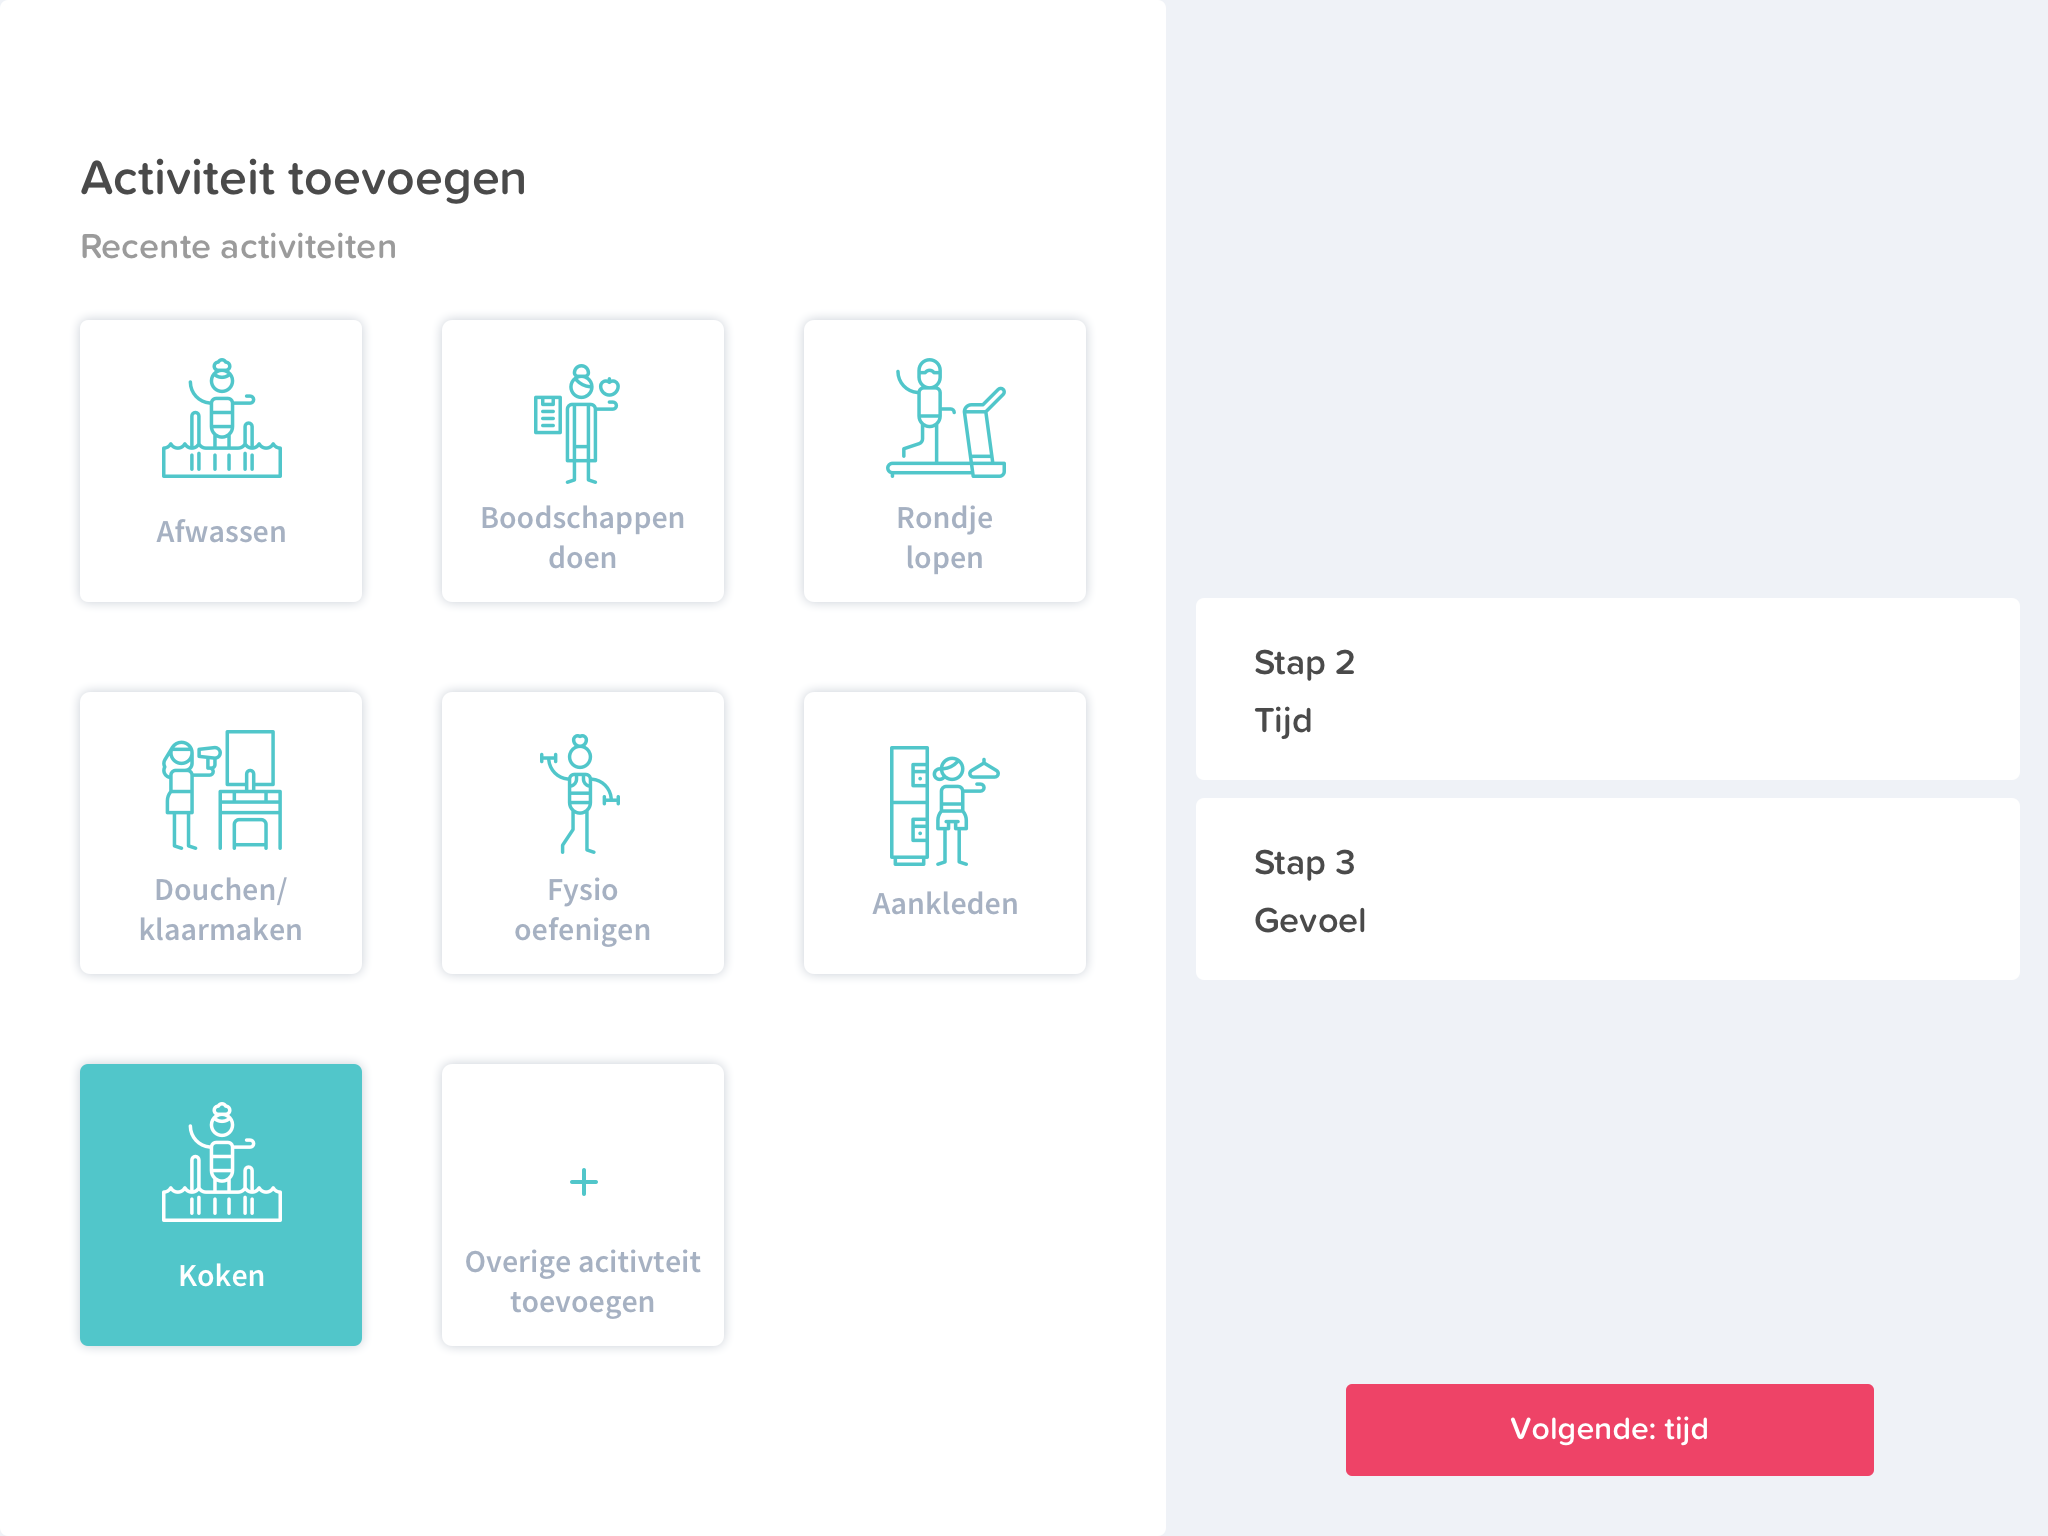
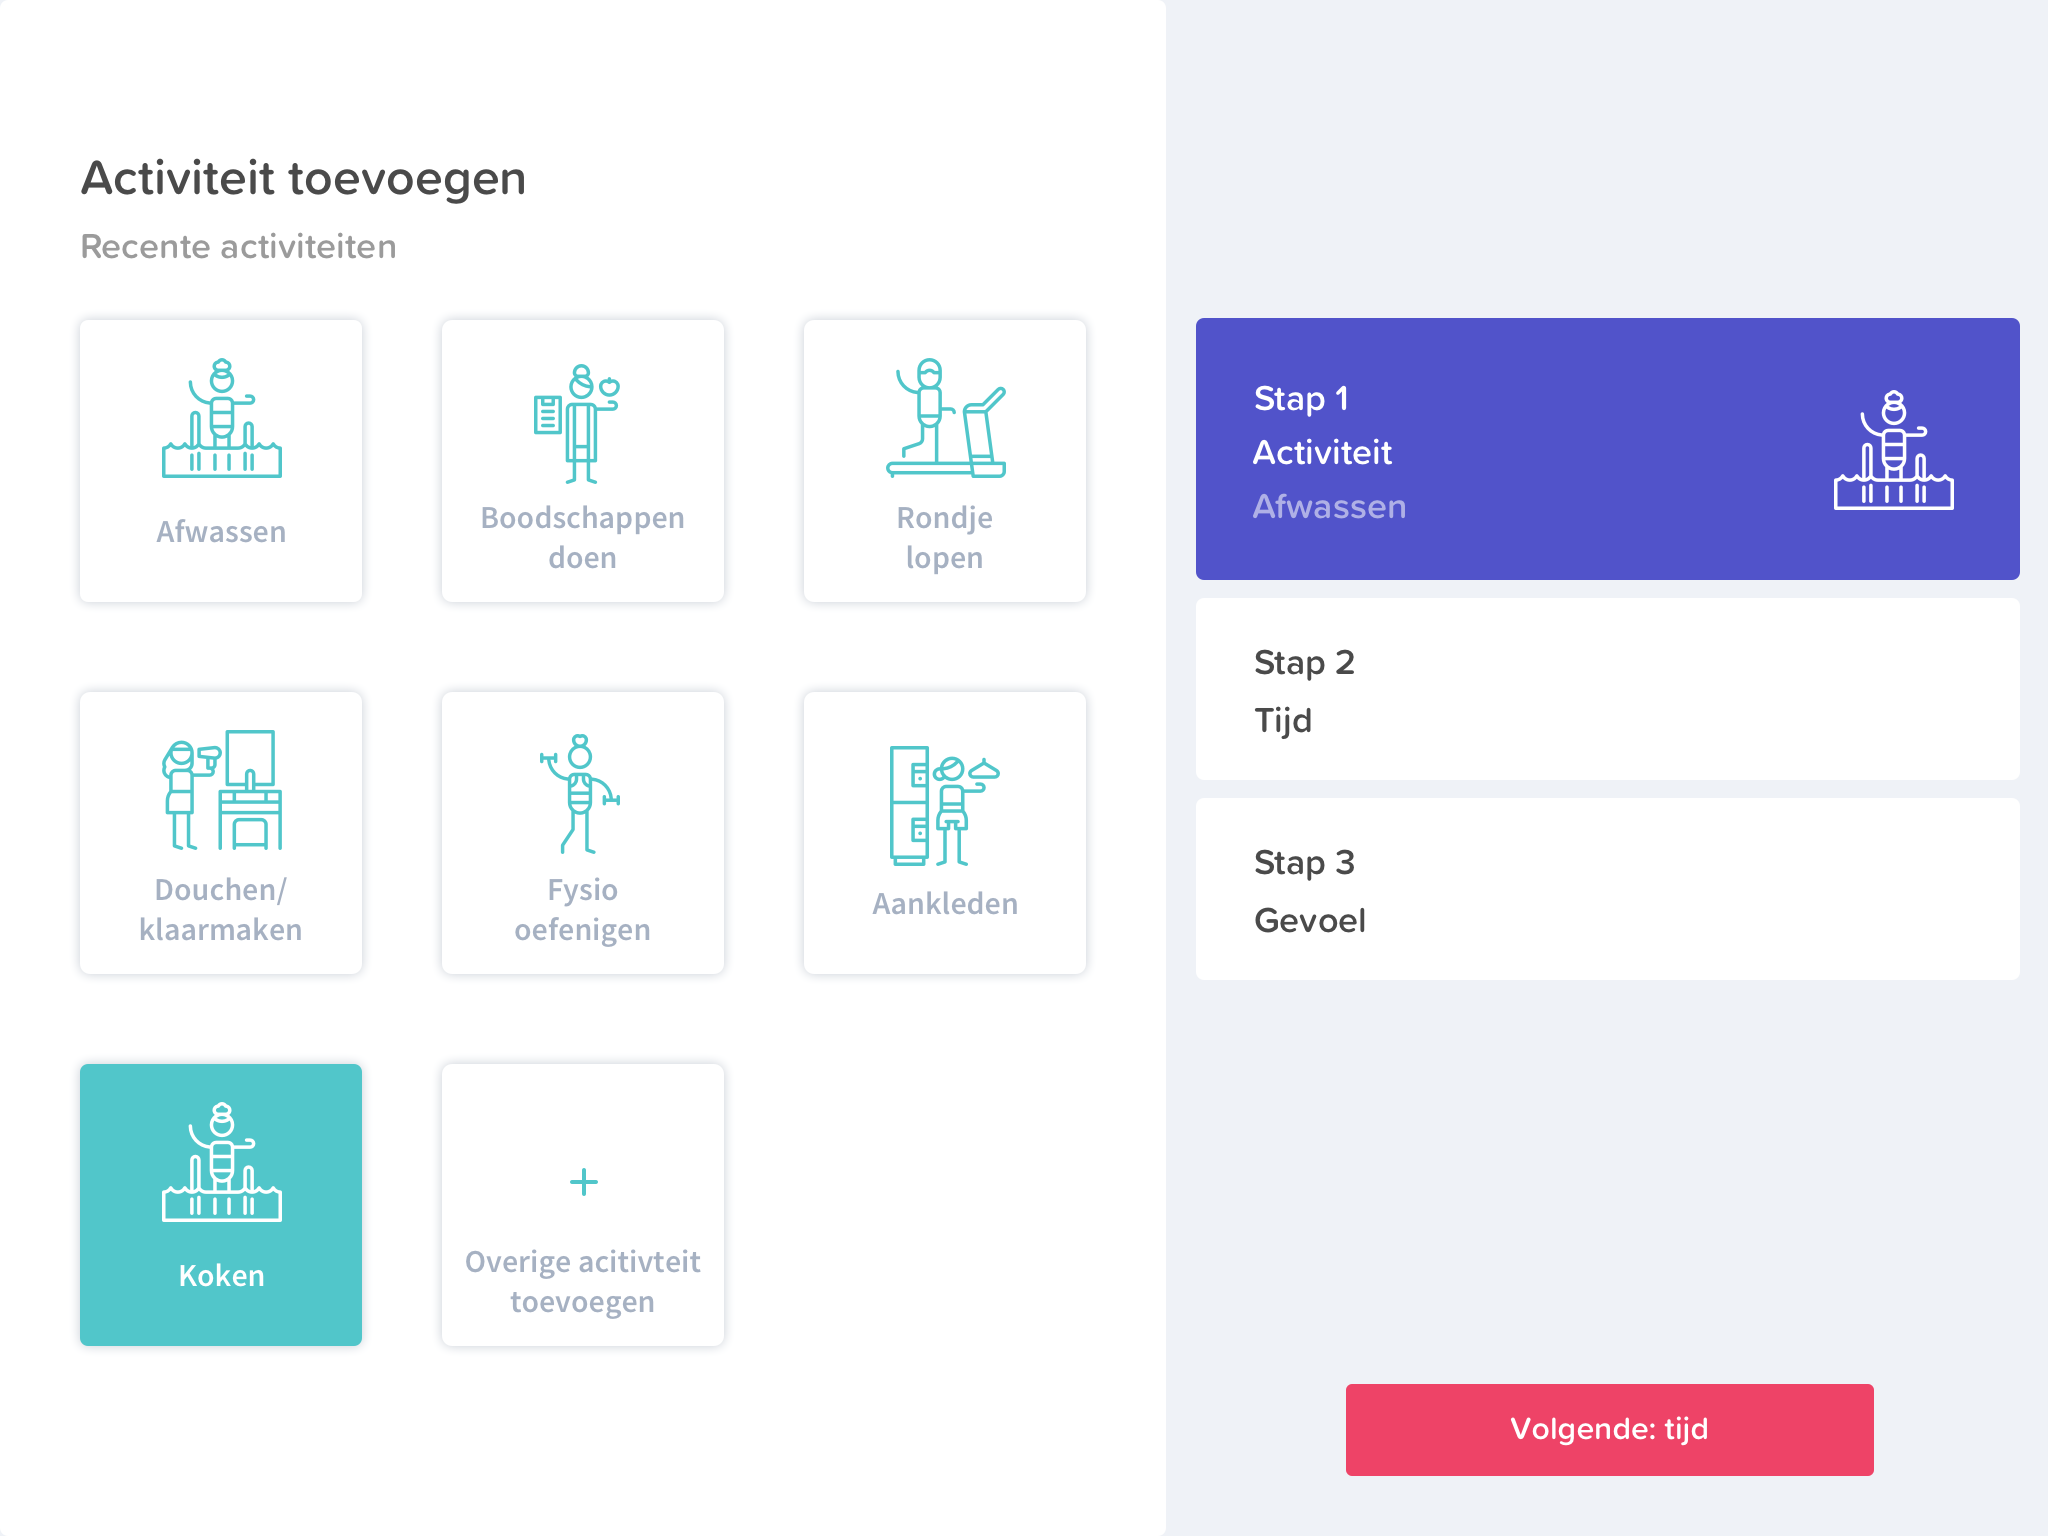
GitBook: [master] 2 pages and 2 assets modified

Changed region(s): [[0.5625, 0.1875, 1.0, 0.375]]

diff --git a/4.-ontwerp/high-fi-prototype-2.0/aanpassingen.md b/4.-ontwerp/high-fi-prototype-2.0/aanpassingen.md
@@ -62,41 +62,73 @@ Zodra de gebruiker begint met typen dan verschuift de knop gelijk. Nu is de "sla
 
 ## 4.0 Activiteit toevoegen
 
+> Er worden 6 recente acitiviteiten getoond voor de gebruiker. Dit gaat op basis van de activiteiten die door jou het meest worden gedaan. In eerste instatie worden en random 6 activiteiten laten zien. Het is ook altijd mogelijk om een overieg activiteit toe te voegen mocht jouw activiteit er niet bij staan.
+
 Uit de test 1 en 2 bleek dat vele testpersonen niet wisten of ze de activiteit moesten invullen **voordat** ze begonnen aan de activiteit of **nadat** ze de activiteit gedaan hadden. Om dit iets duidelijker te maken hebben wij in de onboarding uitgelegd dat je dit invult **nadat je de activiteit hebt gedaan.** Ook hebben wij dit proberen te bereiken door de titel aan te passen. Door de vraag te stellen welke activiteit ze hebben gedaan willen we duiden op de verleden tijd. Ook hebben wij op basis van de [**testen**](../methods/style-test.md) en het [**onderzoek**](../../analyse/onderzoeksvragen/oudere-vriendelijke-ui.md) naar iconografie en kleurgebruik nieuwe iconen toegevoegd die aansluiten bij de activiteit en stijl van de app. 
 
 ![](../../.gitbook/assets/screenshot-2019-01-18-at-12.39.38.png)
 
 ## 4.1 Activiteit toevoegen
 
-Uit de test 1 en 2 bleek dat vele testpersonen niet wisten of ze de activiteit moesten invullen **voordat** ze begonnen aan de activiteit of **nadat** ze de activiteit gedaan hadden. Om dit iets duidelijker te maken
+> Hier kan de gebruiker kiezen uit verschillende activiteiten die door de app al gegenereerd zijn. Mocht de app echt gemaakt worden zouden wij deze lijst nog graag uitbreiden met activiteiten. Als hier de activiteit van de gebruiker niet tussen staat kan hij/zij altijd de activiteit zelf nog toevoegen door middel van het invulveld onderaan de pagina.
 
-![](../../.gitbook/assets/screenshot-2019-01-18-at-12.39.38.png)
+Hier hebben we ook de nieuwe iconen gebruikt en hebben we voor elke acitiviteit een nieuw icoon gebruikt. Ook hebben we heb invulveld dezelfde stijl gegeven als alle andere invulvelden bij het bewerken van je profiel. We waren ook nog een terug knop vergeten toe te voegen mocht je toch geen eigen activiteit willen toevoegen.
+
+![](../../.gitbook/assets/screenshot-2019-01-18-at-13.54.33.png)
 
 ## 5.0 Activiteit geselecteerd
+
+> Als er een activiteit geselecteerd word dan wordt het blok groen om meer nadruk te leggen op de geselecteerde keuze. Ook komt de keuze en het icoon rechts van de pagina in het stappenplan te staan. De knop veranderd ook van de grijze disabled state naar de roze primaire actie state om te laten zien dat de gebruiker nu verder kan. Door de roze kleur laten we de volgende stap even extra opvallen.
+
+Ook hier is de titel veranderd om te suggereren dat het in het verleden is en dus na de activiteit moet worden ingevuld. 
 
 ![](../../.gitbook/assets/screenshot-2019-01-18-at-14.16.25%20%281%29.png)
 
 ## 5.1 Activiteit toegevoegd
 
+> De nieuwe toegevoegde acitiviteit is gelijk geselecteerd omdat deze net is aangemaakt door de gebruiker. Er komt een blokje bij de recente activiteiten van de gebruiker. Er kunnen maximaal 9 blokken op 1 pagina inclusief de "overige activiteit toevoegen" knop.
+
+Ook hier is de titel veranderd om te suggereren dat het in het verleden is en dus na de activiteit moet worden ingevuld. 
+
 ![](../../.gitbook/assets/screenshot-2019-01-18-at-14.19.15.png)
 
 ## 6.0 Tijd 
+
+> Hier geeft de gebruiker aan hoelang de activiteit geduurd heeft. In eerste instantie staat er 0 minuten maar zodra de gebruiker de spinner beweegt komt er in het blauw het aantal uur en minuten te staan.
+
+Na aanleiding van de [**test**](../high-fi-prototype-1.0/usability-testing/testplan.md) hebben we de tijd spinner veranderd. We hebben gekeken naar andere design patronen voor tijd en hebben uiteindelijk deze gekozen. Hij is duidelijker en groter voor ouderen. Er kan op geklikt worden. Zit de gebruiker aan de bovenkant dan gaat hij omhoog en bij de onderkant omlaag. Er hoeft niet precies op het icoontje geklikt te worden. Ook kan er een waarde ingevuld worden als de gebruiker op de getallen klikt. 
 
 ![](../../.gitbook/assets/screenshot-2019-01-18-at-12.43.06.png)
 
 ## 7.0 Gevoel
 
+> De gebruiker vult hier in hoe hij/zij zich voelde bij de uitgekozen activiteit. Er is gekozen voor smileys om uit te kiezen zodat de gebruiker niets hoeft te typen op de iPad en visueel een keuze kan maken tussen emoties. Het is zo simpeler en sneller.
+
+Uit de [**test**](../high-fi-prototype-1.0/usability-testing/testplan.md) bleek dat het niet helemaal duidelijk was wanneer je dan hulp krijgt en of je dit invult als je op dit moment niet meer verder komt. Het is de bedoeling dat je de volgende keer hulp krijgt. Door de tekst te veranderen hebben we dit duielijker gemaakt. Ook hebben we de titel veranderd. Omdat het een prototype was kan de tekst niet telkens veranderen en komt er dus, bij welke activiteit je ook aanklikt, "hoe voelde u zich tijdens het afwassen". Dit is vewarrend en hebben we dus veranderd naar "hoe voelde u zich tijdens deze activiteit". In de ideale situatie waarin het gecodeerd is willen we "hoe voelde u zich tijdens \[naam activiteit\]?"  laten zien zodat ze nog weten om welke activiteit het gaat. 
+
 ![](../../.gitbook/assets/screenshot-2019-01-18-at-13.55.27.png)
 
 ## 8.0 Gevoel geselecteerd 
+
+> De gebruiker kan een gevoel selecteren door op de smiley of het woord te klikken. Als ere en emotie is geselecteerd kan hij/zij door naar de volgende stap of nog de optie help aanvinken.
+
+Ook hier hebben we de titel veranderd. Omdat het een prototype was kan de tekst niet telkens veranderen en komt er dus, bij welke activiteit je ook aanklikt, "hoe voelde u zich tijdens het afwassen". Dit is vewarrend en hebben we dus veranderd naar "hoe voelde u zich tijdens deze activiteit". In de ideale situatie waarin het gecodeerd is willen we "hoe voelde u zich tijdens \[naam activiteit\]?"  laten zien zodat ze nog weten om welke activiteit het gaat. 
 
 ![](../../.gitbook/assets/screenshot-2019-01-18-at-13.55.46.png)
 
 ## 9.0 Hulp gevraagd
 
+> Het is mogelijk om de hulp functie aan de vinken. Hierdoor laat je je familie en vrienden via de app weten dat je daar hulp bij zou willen. Zij kunnen dit zien op hun homepagina met acitiviteit en lichaamsgesteldheid van de patiënt. Het is ook mogelijk om je voldaan te voelen bij een activiteit maar toch hulp te willen de volgende keer.
+
+Ook hier hebben we de titel veranderd. Omdat het een prototype was kan de tekst niet telkens veranderen en komt er dus, bij welke activiteit je ook aanklikt, "hoe voelde u zich tijdens het afwassen". Dit is vewarrend en hebben we dus veranderd naar "hoe voelde u zich tijdens deze activiteit". In de ideale situatie waarin het gecodeerd is willen we "hoe voelde u zich tijdens \[naam activiteit\]?"  laten zien zodat ze nog weten om welke activiteit het gaat. 
+
 ![](../../.gitbook/assets/screenshot-2019-01-18-at-12.46.23.png)
 
 ## 11.0 Home verzorger
+
+> Hier kunnen de familie, vrienden of mantelzorgers de activiteiten van de gebruiker zien. Ook zijn hier de gevarenzones zichtbaar van de gebruiker. Door deze twee gegevens van de gebruiker te delen met de verzorger kan er gerichter hulp en motivatie worden gegeven aan de gebruiker. De verzorger kan precies zien waar de gebruiker moeite mee had en hoe hij/zij zich daarbij voelde.
+
+We hebben de homepagina van de verzorger aangepast. Dit is een onderdeel dat we voor de rest niet verder hebben uitgewerkt omdat hier geen tijd meer voor was in het project. We hadden graag nog een soort progressie/voortgang willen tonen zodat de verzorgers kunnen zien hoe het met de patiënt ging. Dit hebben we niet bij de patiënt zelf gedaan omdat dit alleen maar verwarrend kan zijn voor ouderen en niet goed zichtbaar. 
 
 ![](../../.gitbook/assets/screenshot-2019-01-18-at-12.47.28.png)
 

diff --git a/4.-ontwerp/high-fi-prototype-1.0/ontwerp.md b/4.-ontwerp/high-fi-prototype-1.0/ontwerp.md
@@ -30,33 +30,49 @@ Als de gebruiker op "bewerk gegevens" heeft geklikt dan kan hij/zij de gegevens 
 
 ## 4.0 Activiteit toevoegen
 
+Er worden 6 recente acitiviteiten getoond voor de gebruiker. Dit gaat op basis van de activiteiten die door jou het meest worden gedaan. In eerste instatie worden en random 6 activiteiten laten zien. Het is ook altijd mogelijk om een overieg activiteit toe te voegen mocht jouw activiteit er niet bij staan. 
+
 ![](../../.gitbook/assets/4.0-stap-1-activiteit-toevoegen%20%281%29.png)
 
 ## 4.1 Activiteit toevoegen
+
+Hier kan de gebruiker kiezen uit verschillende activiteiten die door de app al gegenereerd zijn. Mocht de app echt gemaakt worden zouden wij deze lijst nog graag uitbreiden met activiteiten. Als hier de activiteit van de gebruiker niet tussen staat kan hij/zij altijd de activiteit zelf nog toevoegen door middel van het invulveld onderaan de pagina. 
 
 ![](../../.gitbook/assets/4.1-stap-1-activiteit-toevoegen-custom.png)
 
 ## 5.0 Activiteit geselecteerd
 
+Als er een activiteit geselecteerd word dan wordt het blok groen om meer nadruk te leggen op de geselecteerde keuze. Ook komt de keuze en het icoon rechts van de pagina in het stappenplan te staan. De knop veranderd ook van de grijze disabled state naar de roze primaire actie state om te laten zien dat de gebruiker nu verder kan. Door de roze kleur laten we de volgende stap even extra opvallen. 
+
 ![](../../.gitbook/assets/screenshot-2019-01-18-at-12.40.59.png)
 
 ## 5.1 Activiteit toegevoegd
+
+De nieuwe toegevoegde acitiviteit is gelijk geselecteerd omdat deze net is aangemaakt door de gebruiker. Er komt een blokje bij de recente activiteiten van de gebruiker. Er kunnen maximaal 9 blokken op 1 pagina inclusief de "overige activiteit toevoegen" knop. 
 
 ![](../../.gitbook/assets/5.1-stap-1-activiteit-toevoegen-custom-active.png)
 
 ## 6.0 Tijd
 
+Hier geeft de gebruiker aan hoelang de activiteit geduurd heeft. In eerste instantie staat er 0 minuten maar zodra de gebruiker de spinner beweegt komt er in het blauw het aantal uur en minuten te staan.
+
 ![](../../.gitbook/assets/6.0-stap-2-tijd.png)
 
 ## 7.0 Gevoel
+
+De gebruiker vult hier in hoe hij/zij zich voelde bij de uitgekozen activiteit. Er is gekozen voor smileys om uit te kiezen zodat de gebruiker niets hoeft te typen op de iPad en visueel een keuze kan maken tussen emoties. Het is zo simpeler en sneller.
 
 ![](../../.gitbook/assets/7.0-stap-3-gevoel.png)
 
 ## 8.0 Goevoel geselecteerd 
 
+De gebruiker kan een gevoel selecteren door op de smiley of het woord te klikken. Als ere en emotie is geselecteerd kan hij/zij door naar de volgende stap of nog de optie help aanvinken. 
+
 ![](../../.gitbook/assets/8.0-stap-3-gevoel-selected.png)
 
 ## 9.0 Hulp gevraagd
+
+Het is mogelijk om de hulp functie aan de vinken. Hierdoor laat je je familie en vrienden via de app weten dat je daar hulp bij zou willen. Zij kunnen dit zien op hun homepagina met acitiviteit en lichaamsgesteldheid van de patiënt. Het is ook mogelijk om je voldaan te voelen bij een activiteit maar toch hulp te willen de volgende keer.
 
 ![](../../.gitbook/assets/9.0-stap-3-gevoel-selected-help.png)
 
